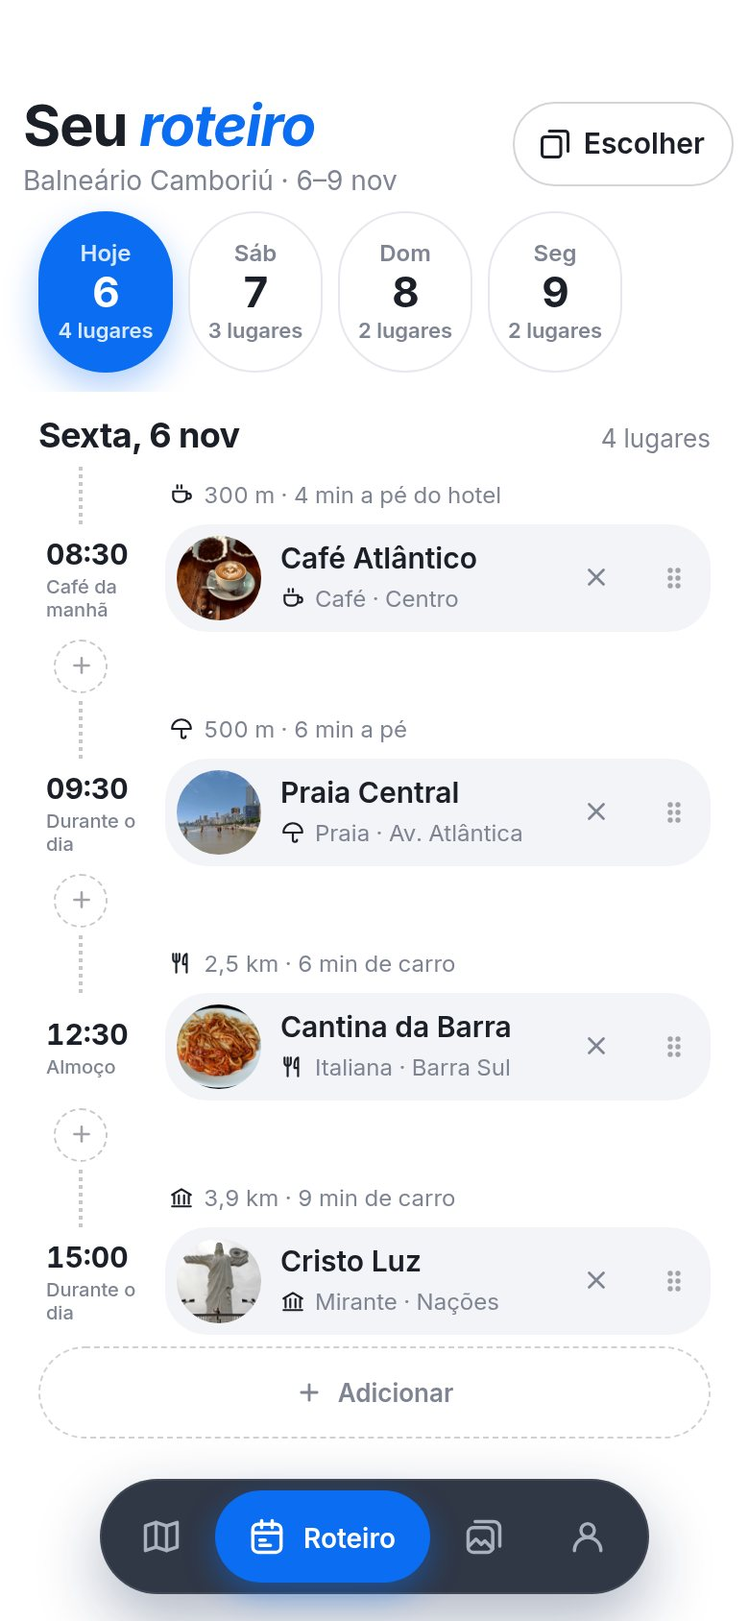
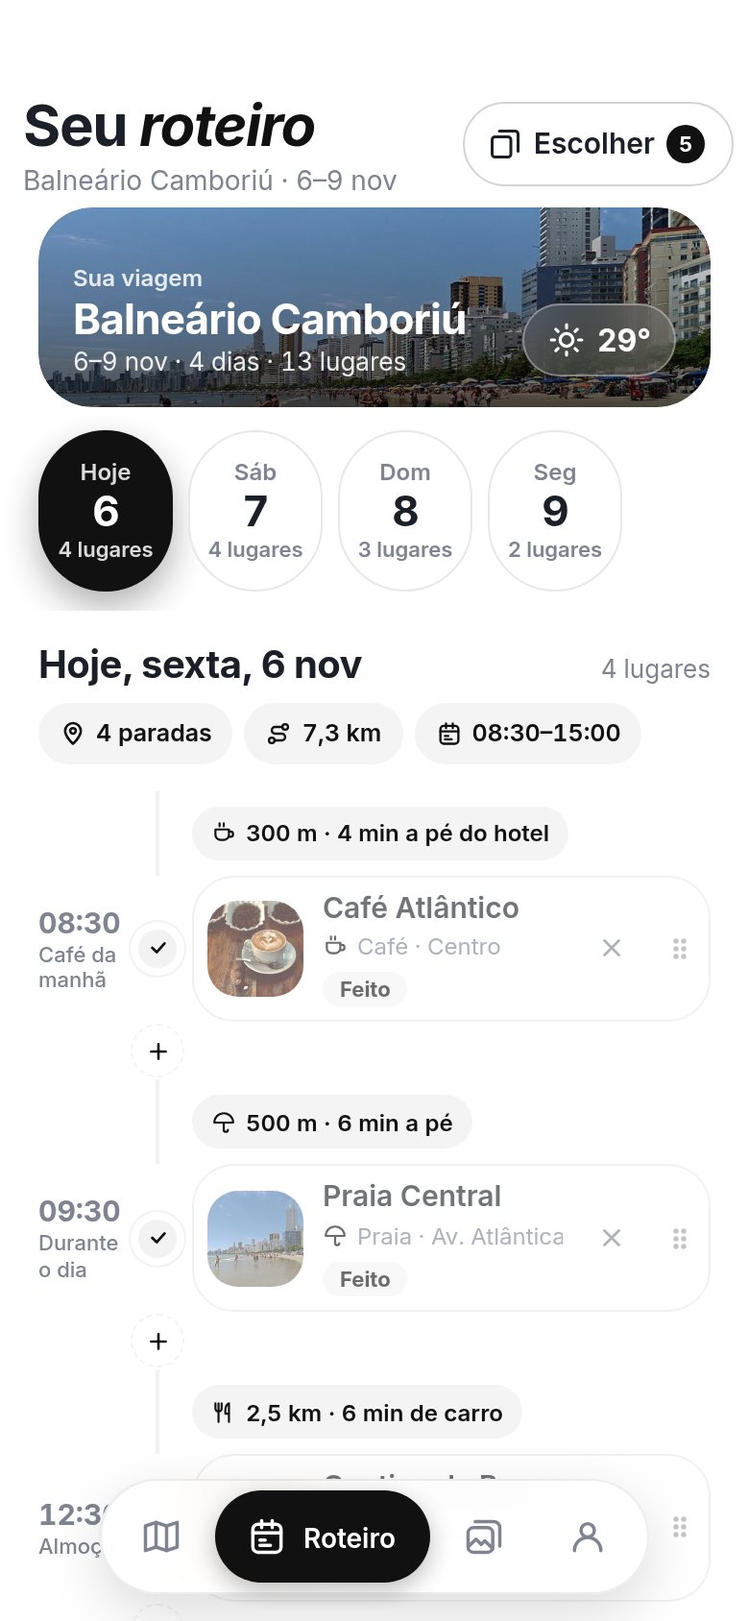
Preto e branco: o destaque passa a ser preto em todo o app, mapa, landing e marca; mockups de celular para os slides respeitando o notch

diff --git a/index.html b/index.html
@@ -6,7 +6,7 @@
 <link rel="icon" href="brand/favicon.svg" type="image/svg+xml">
 <link rel="icon" href="brand/favicon-32.png" sizes="32x32" type="image/png">
 <link rel="apple-touch-icon" href="brand/apple-touch-icon.png">
-<meta name="theme-color" content="#2A78C2">
+<meta name="theme-color" content="#111111">
 <meta name="viewport" content="width=device-width, initial-scale=1, viewport-fit=cover">
 <meta name="description" content="Chegou no litoral? O Partiu mostra o que fazer, comer e curtir perto de você, na hora.">
 <meta property="og:title" content="Partiu">
@@ -17,7 +17,7 @@
 <style>
 /* Landing do Partiu: azul e branco, formato pílula, pouco texto e muito movimento. */
 :root {
-  --brand: #2A78C2; --brand-deep: #1F5F9E; --brand-soft: #EAF2FA;
+  --brand: #111111; --brand-deep: #000000; --brand-soft: #F2F2F3;
   --ink: #0E1726; --sec: #6B7486; --line: #E4E8EF; --bg: #FFFFFF; --soft: #F3F7FC;
   --font: -apple-system, BlinkMacSystemFont, "SF Pro Display", Inter, "Helvetica Neue", Arial, sans-serif;
   --ease: cubic-bezier(.2, .8, .2, 1); --spring: cubic-bezier(.34, 1.56, .64, 1);
@@ -32,7 +32,7 @@ h1, h2, h3 { letter-spacing: -0.04em; line-height: .98; }
 em { font-style: italic; color: var(--brand); }
 
 /* navegação flutuante */
-.nav { position: fixed; z-index: 50; top: 14px; left: 50%; transform: translateX(-50%); width: min(1180px, calc(100% - 24px)); display: flex; align-items: center; gap: 8px; padding: 8px 8px 8px 16px; border-radius: 999px; background: rgba(255,255,255,.78); backdrop-filter: blur(18px) saturate(1.5); -webkit-backdrop-filter: blur(18px) saturate(1.5); box-shadow: 0 8px 30px rgba(8, 30, 70, .08), inset 0 0 0 1px rgba(14, 23, 38, .06); animation: drop .8s var(--ease) backwards; }
+.nav { position: fixed; z-index: 50; top: 14px; left: 50%; transform: translateX(-50%); width: min(1180px, calc(100% - 24px)); display: flex; align-items: center; gap: 8px; padding: 8px 8px 8px 16px; border-radius: 999px; background: rgba(255,255,255,.78); backdrop-filter: blur(18px) saturate(1.5); -webkit-backdrop-filter: blur(18px) saturate(1.5); box-shadow: 0 8px 30px rgba(0, 0, 0, .08), inset 0 0 0 1px rgba(14, 23, 38, .06); animation: drop .8s var(--ease) backwards; }
 @keyframes drop { from { opacity: 0; transform: translate(-50%, -24px); } }
 .logo { display: flex; align-items: center; gap: 8px; font-weight: 800; font-size: 19px; letter-spacing: -0.03em; }
 .logo img { width: 30px; height: 30px; border-radius: 9px; }
@@ -42,8 +42,8 @@ em { font-style: italic; color: var(--brand); }
 .pill { display: inline-flex; align-items: center; justify-content: center; gap: 8px; min-height: 48px; padding: 0 22px; border-radius: 999px; font-size: 15px; font-weight: 700; white-space: nowrap; transition: transform .25s var(--spring), box-shadow .25s, background .2s; }
 .pill:hover { transform: translateY(-2px); }
 .pill:active { transform: scale(.96); }
-.pill.blue { background: var(--brand); color: #fff; box-shadow: 0 10px 24px rgba(42, 120, 194, .3); }
-.pill.blue:hover { background: var(--brand-deep); box-shadow: 0 14px 30px rgba(42, 120, 194, .38); }
+.pill.blue { background: var(--brand); color: #fff; box-shadow: 0 10px 24px rgba(17, 17, 17, .3); }
+.pill.blue:hover { background: var(--brand-deep); box-shadow: 0 14px 30px rgba(17, 17, 17, .38); }
 .pill.line { background: #fff; color: var(--ink); box-shadow: inset 0 0 0 1.5px var(--line); }
 .pill.line:hover { box-shadow: inset 0 0 0 1.5px var(--brand); color: var(--brand); }
 .pill.white { background: #fff; color: var(--brand); }
@@ -70,14 +70,14 @@ em { font-style: italic; color: var(--brand); }
 .cta { display: flex; flex-wrap: wrap; gap: 10px; margin-top: 30px; animation: fade 1s .5s var(--ease) backwards; }
 .stage { position: relative; height: 640px; display: grid; place-items: center; }
 .sun { position: absolute; width: 470px; height: 470px; border-radius: 50%; background: var(--brand); animation: grow 1.2s var(--ease) backwards, breathe 8s 1.2s ease-in-out infinite; }
-.ring { position: absolute; width: 600px; height: 600px; border-radius: 50%; border: 1.5px dashed rgba(42, 120, 194, .25); animation: spin 60s linear infinite; }
+.ring { position: absolute; width: 600px; height: 600px; border-radius: 50%; border: 1.5px dashed rgba(17, 17, 17, .25); animation: spin 60s linear infinite; }
 @keyframes grow { from { transform: scale(.4); opacity: 0; } }
 @keyframes breathe { 50% { transform: scale(1.04); } }
 @keyframes spin { to { transform: rotate(360deg); } }
-.phone { position: relative; width: 290px; aspect-ratio: 390 / 844; border-radius: 46px; padding: 9px; background: #fff; box-shadow: 0 40px 80px rgba(8, 30, 70, .28), 0 0 0 1px rgba(14,23,38,.06); transform-style: preserve-3d; transition: transform .2s ease-out; animation: rise 1.1s .2s var(--ease) backwards; }
+.phone { position: relative; width: 290px; aspect-ratio: 390 / 844; border-radius: 46px; padding: 9px; background: #fff; box-shadow: 0 40px 80px rgba(0, 0, 0, .28), 0 0 0 1px rgba(14,23,38,.06); transform-style: preserve-3d; transition: transform .2s ease-out; animation: rise 1.1s .2s var(--ease) backwards; }
 @keyframes rise { from { opacity: 0; transform: translateY(80px) rotate(4deg); } }
 .phone img { width: 100%; height: 100%; object-fit: cover; object-position: top; border-radius: 38px; }
-.chip { position: absolute; z-index: 2; display: flex; align-items: center; gap: 10px; padding: 10px 16px 10px 10px; border-radius: 999px; background: #fff; box-shadow: 0 14px 34px rgba(8, 30, 70, .16); font-size: 14px; font-weight: 700; white-space: nowrap; animation: pop .7s var(--spring) backwards, bob 5s ease-in-out infinite; }
+.chip { position: absolute; z-index: 2; display: flex; align-items: center; gap: 10px; padding: 10px 16px 10px 10px; border-radius: 999px; background: #fff; box-shadow: 0 14px 34px rgba(0, 0, 0, .16); font-size: 14px; font-weight: 700; white-space: nowrap; animation: pop .7s var(--spring) backwards, bob 5s ease-in-out infinite; }
 .chip small { display: block; font-size: 12px; font-weight: 600; color: var(--sec); }
 .chip .d { width: 36px; height: 36px; border-radius: 50%; display: grid; place-items: center; background: var(--brand-soft); color: var(--brand); flex: none; }
 .chip .d.b { background: var(--brand); color: #fff; }
@@ -126,7 +126,7 @@ h2 { font-size: clamp(42px, 6vw, 84px); font-weight: 800; margin: 18px 0 0; }
 .pin-pulse::before { content: ""; position: absolute; inset: -4px; border-radius: 50%; background: rgba(11,110,242,.45); animation: wave 2s ease-out infinite; }
 @keyframes wave { to { transform: scale(4); opacity: 0; } }
 .deck { position: relative; height: 230px; margin: 22px auto 0; width: 190px; }
-.card { position: absolute; inset: 0; border-radius: 26px; overflow: hidden; box-shadow: 0 16px 34px rgba(8, 30, 70, .18); background: #fff; }
+.card { position: absolute; inset: 0; border-radius: 26px; overflow: hidden; box-shadow: 0 16px 34px rgba(0, 0, 0, .18); background: #fff; }
 .card img { width: 100%; height: 100%; object-fit: cover; }
 .card:nth-child(1) { transform: rotate(-8deg) translateX(-18px); }
 .card:nth-child(2) { transform: rotate(5deg) translateX(14px); }
@@ -147,7 +147,7 @@ h2 { font-size: clamp(42px, 6vw, 84px); font-weight: 800; margin: 18px 0 0; }
 .screens { margin-top: 50px; display: flex; gap: 22px; overflow-x: auto; scroll-snap-type: x mandatory; padding: 20px 4px 40px; scrollbar-width: none; }
 .screens::-webkit-scrollbar { display: none; }
 .shot { flex: none; width: 260px; scroll-snap-align: center; text-align: center; }
-.shot .phone { width: 100%; animation: none; box-shadow: 0 30px 60px rgba(8, 30, 70, .18), 0 0 0 1px rgba(14,23,38,.06); transition: transform .5s var(--ease); }
+.shot .phone { width: 100%; animation: none; box-shadow: 0 30px 60px rgba(0, 0, 0, .18), 0 0 0 1px rgba(14,23,38,.06); transition: transform .5s var(--ease); }
 .shot:nth-child(even) .phone { transform: translateY(36px); }
 .shot:hover .phone { transform: translateY(-8px) rotate(-1.5deg); }
 .shot span { display: inline-flex; margin-top: 20px; padding: 8px 16px; border-radius: 999px; background: var(--soft); font-size: 14px; font-weight: 700; }
@@ -169,7 +169,7 @@ h2 { font-size: clamp(42px, 6vw, 84px); font-weight: 800; margin: 18px 0 0; }
 /* comércio */
 .biz { position: relative; border-radius: 48px; overflow: hidden; min-height: 520px; display: flex; align-items: flex-end; color: #fff; isolation: isolate; }
 .biz img { position: absolute; inset: 0; width: 100%; height: 100%; object-fit: cover; z-index: -2; transform: scale(1.1); transition: transform .1s linear; }
-.biz::after { content: ""; position: absolute; inset: 0; z-index: -1; background: linear-gradient(0deg, rgba(0, 20, 50, .82) 10%, rgba(0, 20, 50, .1) 70%); }
+.biz::after { content: ""; position: absolute; inset: 0; z-index: -1; background: linear-gradient(0deg, rgba(0, 0, 0, .82) 10%, rgba(0, 0, 0, .1) 70%); }
 .biz-in { padding: clamp(28px, 5vw, 60px); max-width: 720px; }
 .biz h2 { color: #fff; }
 .biz p { margin: 18px 0 26px; font-size: 20px; opacity: .9; line-height: 1.4; }

diff --git a/css/screens/plan.css b/css/screens/plan.css
@@ -9,7 +9,7 @@
 .dc-w { display: inline-flex; align-items: center; gap: 3px; font-size: 12px; font-weight: 600; text-transform: capitalize; }
 .day-chip b { font-size: 22px; font-weight: 700; letter-spacing: -0.5px; line-height: 1.1; color: var(--ink); font-variant-numeric: tabular-nums; }
 .day-chip small { font-size: 11px; font-weight: 600; white-space: nowrap; }
-.day-chip.on { background: var(--brand); border-color: transparent; color: rgba(255,255,255,.85); box-shadow: 0 8px 18px rgba(42, 120, 194, .32); }
+.day-chip.on { background: var(--brand); border-color: transparent; color: rgba(255,255,255,.85); box-shadow: 0 8px 18px rgba(17, 17, 17, .32); }
 .day-chip.on b { color: #fff; }
 .day-chip.drop { transform: scale(1.1); border: 1.5px dashed var(--ink); }
 
@@ -160,7 +160,7 @@
 .choice:active { transform: scale(.97); }
 .choice img { position: absolute; inset: 0; width: 100%; height: 100%; object-fit: cover; z-index: -2; transition: transform .6s cubic-bezier(.2, .8, .2, 1); }
 .choice:hover img { transform: scale(1.04); }
-.choice::after { content: ""; position: absolute; inset: 0; z-index: -1; background: linear-gradient(180deg, rgba(6,22,48,0) 30%, rgba(6,22,48,.78)); }
+.choice::after { content: ""; position: absolute; inset: 0; z-index: -1; background: linear-gradient(180deg, rgba(0, 0, 0,0) 30%, rgba(0, 0, 0,.78)); }
 .choice-tag { position: absolute; top: 16px; left: 16px; padding: 6px 12px; border-radius: 999px; font-size: 13px; font-weight: 600; background: var(--glass); border: 1px solid var(--glass-line); backdrop-filter: blur(14px); -webkit-backdrop-filter: blur(14px); }
 .choice-tx { flex: 1; min-width: 0; display: flex; flex-direction: column; gap: 4px; padding: 20px; }
 .choice-tx strong { font-size: 20px; font-weight: 700; letter-spacing: -0.4px; }
@@ -184,7 +184,7 @@
 .ev-time:hover { background: none; color: var(--brand); }
 .ev-dot { position: relative; z-index: 1; width: 20px; height: 20px; border-radius: 50%; display: grid; place-items: center; background: var(--brand); color: #fff; font-size: 11px; font-weight: 700; box-shadow: 0 0 0 4px var(--surface), 0 0 0 5px var(--brand-soft); font-variant-numeric: tabular-nums; }
 .ev-card { background: var(--surface); border: 1px solid var(--line); padding: 7px 2px 7px 7px; gap: 10px; transition: border-color .2s, transform .2s cubic-bezier(.2, .8, .2, 1), box-shadow .2s; }
-.ev-card:hover { border-color: var(--brand); box-shadow: 0 8px 20px rgba(42, 120, 194, .10); }
+.ev-card:hover { border-color: var(--brand); box-shadow: 0 8px 20px rgba(17, 17, 17, .10); }
 .ev .pph { width: 50px; height: 50px; border-radius: 16px; }
 .ev-card .rm { width: 30px; }
 .ev-card .handle { width: 22px; }
@@ -210,7 +210,7 @@
 /* capa da viagem no topo do roteiro */
 .trip-hero { position: relative; flex: none; margin: 6px 20px 4px; min-height: 104px; border-radius: 28px; overflow: hidden; isolation: isolate; color: #fff; display: flex; align-items: flex-end; gap: 12px; padding: 16px 18px; -webkit-mask-image: -webkit-radial-gradient(white, black); animation: rise-in .5s cubic-bezier(.2, .8, .2, 1) backwards; }
 .trip-hero img { position: absolute; inset: 0; width: 100%; height: 100%; object-fit: cover; z-index: -2; animation: m-kenburns 12s cubic-bezier(.2, .8, .2, 1) both; }
-.trip-hero::after { content: ""; position: absolute; inset: 0; z-index: -1; background: linear-gradient(180deg, rgba(0, 25, 55, .05), rgba(0, 25, 55, .62)); }
+.trip-hero::after { content: ""; position: absolute; inset: 0; z-index: -1; background: linear-gradient(180deg, rgba(0, 0, 0, .05), rgba(0, 0, 0, .62)); }
 .th-tx { flex: 1; min-width: 0; display: flex; flex-direction: column; gap: 1px; }
 .th-tx small { font-size: 12px; font-weight: 600; opacity: .85; }
 .th-tx strong { font-size: 22px; font-weight: 700; letter-spacing: -0.4px; white-space: nowrap; overflow: hidden; text-overflow: ellipsis; }
@@ -222,12 +222,12 @@
 .tl-now { position: relative; display: flex; align-items: center; margin: 6px 0 6px 52px; height: 26px; animation: rise-in .5s .2s cubic-bezier(.2, .8, .2, 1) backwards; }
 .tl-now::before { content: ""; position: absolute; left: 4px; right: 0; top: 50%; height: 2px; background: var(--brand); border-radius: 2px; }
 .tl-now::after { content: ""; position: absolute; left: 0; top: 50%; width: 12px; height: 12px; margin-top: -6px; border-radius: 50%; background: var(--brand); box-shadow: 0 0 0 4px var(--brand-soft); animation: now-pulse 2s ease-out infinite; }
-@keyframes now-pulse { 0% { box-shadow: 0 0 0 0 rgba(42, 120, 194, .45); } 100% { box-shadow: 0 0 0 10px rgba(42, 120, 194, 0); } }
+@keyframes now-pulse { 0% { box-shadow: 0 0 0 0 rgba(17, 17, 17, .45); } 100% { box-shadow: 0 0 0 10px rgba(17, 17, 17, 0); } }
 .tl-now span { position: relative; margin-left: 26px; padding: 4px 12px; border-radius: 999px; background: var(--brand); color: #fff; font-size: 12px; font-weight: 700; font-variant-numeric: tabular-nums; }
 .ev.past .ev-card { opacity: .62; }
 .ev.past .ev-time { color: var(--sec); }
 .ev.past .ev-dot { background: var(--brand-soft); color: var(--brand); }
-.ev.live .ev-card { border-color: var(--brand); box-shadow: 0 8px 22px rgba(42, 120, 194, .16); }
+.ev.live .ev-card { border-color: var(--brand); box-shadow: 0 8px 22px rgba(17, 17, 17, .16); }
 .ev.live .ev-dot { animation: now-pulse 2s ease-out infinite; }
 .ev-tag { align-self: flex-start; margin-top: 3px; padding: 2px 9px; border-radius: 999px; background: var(--brand); color: #fff; font-size: 11px; font-weight: 700; }
 .ev-tag.done { background: var(--fill); color: var(--brand); }

diff --git a/css/base.css b/css/base.css
@@ -7,18 +7,18 @@ img { max-width: 100%; }
 :root {
   --bg: #FFFFFF;
   --surface: #FFFFFF;
-  --fill: #F1F6FC; /* fundos suaves em azul bem claro, nunca cinza */
-  --line: #E2EAF3;
+  --fill: #F4F4F5; /* fundos suaves em cinza bem claro */
+  --line: #E8E8EA;
   --ink: #1B1F27;
   --sec: #7E8492;
   --muted: #B9BEC8;
-  --brand: #2A78C2;
-  --brand-deep: #1F5F9E;
-  --brand-soft: #EAF2FA;
-  --brand-sky: #7CC0EA; /* ciano do mar, só para detalhes pequenos */
+  --brand: #111111;
+  --brand-deep: #000000;
+  --brand-soft: #F2F2F3;
+  --brand-sky: #8A8A8E; /* cinza médio, só para detalhes pequenos */
   --glass: rgba(255, 255, 255, .16);
   --glass-line: rgba(255, 255, 255, .34);
-  --screen: #FFFFFF; /* telas em branco puro; o azul é a única cor */
+  --screen: #FFFFFF; /* telas em branco puro; o preto é o destaque */
   --font: -apple-system, BlinkMacSystemFont, 'SF Pro Display', 'SF Pro Text', 'Inter', 'Segoe UI', Roboto, sans-serif;
   color-scheme: light;
 }
@@ -34,7 +34,7 @@ h1 { font-size: 30px; font-weight: 700; line-height: 1.15; letter-spacing: -0.7p
 .q-title h1 em { font-weight: 700; }
 h1 em { font-style: italic; color: var(--brand); }
 
-.phone { position: relative; width: 390px; height: 844px; max-height: calc(100% - 32px); background: var(--surface); border-radius: 48px; overflow: hidden; overflow: clip; box-shadow: 0 0 0 10px #FFFFFF, 0 0 0 11px #DADDE3, 0 40px 90px rgba(19,40,80,.18); }
+.phone { position: relative; width: 390px; height: 844px; max-height: calc(100% - 32px); background: var(--surface); border-radius: 48px; overflow: hidden; overflow: clip; box-shadow: 0 0 0 10px #FFFFFF, 0 0 0 11px #DADDE3, 0 40px 90px rgba(0, 0, 0,.18); }
 @media (max-width: 500px) {
   body { display: block; }
   .phone { width: 100%; height: 100%; max-height: none; border-radius: 0; box-shadow: none; }
@@ -73,11 +73,11 @@ h1 em { font-style: italic; color: var(--brand); }
 
 /* ---------- barra inferior: fixa e flutuando sobre todas as abas da área logada ---------- */
 .tabbar { position: absolute; z-index: 1500; left: 50%; bottom: max(14px, env(safe-area-inset-bottom)); transform: translateX(-50%); display: flex; gap: 2px; padding: 6px; border-radius: 999px;
-  background: rgba(255, 255, 255, .9); backdrop-filter: blur(18px) saturate(1.6); -webkit-backdrop-filter: blur(18px) saturate(1.6); box-shadow: 0 10px 30px rgba(20, 50, 90, .14), inset 0 0 0 1px rgba(20, 40, 70, .07);
+  background: rgba(255, 255, 255, .9); backdrop-filter: blur(18px) saturate(1.6); -webkit-backdrop-filter: blur(18px) saturate(1.6); box-shadow: 0 10px 30px rgba(0, 0, 0, .14), inset 0 0 0 1px rgba(0, 0, 0, .07);
   transition: transform .35s cubic-bezier(.2, .8, .2, 1), opacity .25s; animation: tab-in .5s cubic-bezier(.34, 1.56, .64, 1) backwards; }
 .tabbar[hidden] { display: flex; opacity: 0; pointer-events: none; transform: translate(-50%, 140%); }
 @keyframes tab-in { from { transform: translate(-50%, 140%); } }
-.tab-ind { position: absolute; z-index: 0; top: 6px; bottom: 6px; left: 0; width: var(--iw, 0); transform: translateX(var(--ix, 0)); border-radius: 999px; background: var(--brand); box-shadow: 0 4px 12px rgba(42, 120, 194, .28); transition: transform .45s cubic-bezier(.34, 1.3, .64, 1), width .45s cubic-bezier(.34, 1.3, .64, 1); }
+.tab-ind { position: absolute; z-index: 0; top: 6px; bottom: 6px; left: 0; width: var(--iw, 0); transform: translateX(var(--ix, 0)); border-radius: 999px; background: var(--brand); box-shadow: 0 4px 12px rgba(17, 17, 17, .28); transition: transform .45s cubic-bezier(.34, 1.3, .64, 1), width .45s cubic-bezier(.34, 1.3, .64, 1); }
 .tabbar button { position: relative; z-index: 1; min-height: 48px; min-width: 52px; padding: 0 14px; border: 0; border-radius: 999px; background: none; display: flex; align-items: center; justify-content: center; gap: 0; font-size: 14px; font-weight: 600; color: var(--sec); transition: color .25s, padding .35s cubic-bezier(.2, .8, .2, 1); }
 .tabbar button:active .tab-ic { transform: scale(.86); }
 .tab-ic { display: grid; transition: transform .2s cubic-bezier(.2, .8, .2, 1); }
@@ -100,7 +100,7 @@ h1 em { font-style: italic; color: var(--brand); }
 /* botão do desktop para ver o app no formato de celular (e voltar para tela cheia) */
 .view-toggle { display: none; }
 @media (min-width: 900px) {
-  .view-toggle { position: fixed; z-index: 3000; top: 16px; right: 16px; display: inline-flex; align-items: center; gap: 8px; min-height: 42px; padding: 0 16px 0 14px; border: 1px solid var(--line); border-radius: 999px; background: rgba(255,255,255,.92); backdrop-filter: blur(14px); -webkit-backdrop-filter: blur(14px); color: var(--brand); font-size: 14px; font-weight: 600; box-shadow: 0 6px 18px rgba(20, 50, 90, .12); transition: transform .2s cubic-bezier(.2, .8, .2, 1), background .2s; }
+  .view-toggle { position: fixed; z-index: 3000; top: 16px; right: 16px; display: inline-flex; align-items: center; gap: 8px; min-height: 42px; padding: 0 16px 0 14px; border: 1px solid var(--line); border-radius: 999px; background: rgba(255,255,255,.92); backdrop-filter: blur(14px); -webkit-backdrop-filter: blur(14px); color: var(--brand); font-size: 14px; font-weight: 600; box-shadow: 0 6px 18px rgba(0, 0, 0, .12); transition: transform .2s cubic-bezier(.2, .8, .2, 1), background .2s; }
   .view-toggle:hover { transform: translateY(-1px); background: #fff; }
   .view-toggle[aria-pressed="true"] { background: var(--brand); color: #fff; border-color: var(--brand); }
   html.phone-mode body { background: var(--fill); }

diff --git a/app.html b/app.html
@@ -8,22 +8,22 @@
 <link rel="icon" href="brand/favicon.svg" type="image/svg+xml">
 <link rel="icon" href="brand/favicon-32.png" sizes="32x32" type="image/png">
 <link rel="apple-touch-icon" href="brand/apple-touch-icon.png">
-<meta name="theme-color" content="#2A78C2">
+<meta name="theme-color" content="#111111">
 <link rel="preconnect" href="https://fonts.googleapis.com">
 <link rel="stylesheet" href="https://fonts.googleapis.com/css2?family=Inter:ital,wght@0,400;0,500;0,600;0,700;1,600;1,700&display=swap">
 <link rel="stylesheet" href="https://cdnjs.cloudflare.com/ajax/libs/maplibre-gl/4.7.1/maplibre-gl.css">
-<link rel="stylesheet" href="css/base.css?v=26">
-<link rel="stylesheet" href="css/screens/onboarding.css?v=26">
-<link rel="stylesheet" href="css/screens/quiz.css?v=26">
-<link rel="stylesheet" href="css/screens/loading.css?v=26">
-<link rel="stylesheet" href="css/screens/plan.css?v=26">
-<link rel="stylesheet" href="css/screens/map.css?v=26">
-<link rel="stylesheet" href="css/screens/login.css?v=26">
-<link rel="stylesheet" href="css/screens/feed.css?v=26">
-<link rel="stylesheet" href="css/screens/conta.css?v=26">
-<link rel="stylesheet" href="css/pill.css?v=26">
-<link rel="stylesheet" href="css/motion.css?v=26">
-<link rel="stylesheet" href="css/desktop.css?v=26">
+<link rel="stylesheet" href="css/base.css?v=27">
+<link rel="stylesheet" href="css/screens/onboarding.css?v=27">
+<link rel="stylesheet" href="css/screens/quiz.css?v=27">
+<link rel="stylesheet" href="css/screens/loading.css?v=27">
+<link rel="stylesheet" href="css/screens/plan.css?v=27">
+<link rel="stylesheet" href="css/screens/map.css?v=27">
+<link rel="stylesheet" href="css/screens/login.css?v=27">
+<link rel="stylesheet" href="css/screens/feed.css?v=27">
+<link rel="stylesheet" href="css/screens/conta.css?v=27">
+<link rel="stylesheet" href="css/pill.css?v=27">
+<link rel="stylesheet" href="css/motion.css?v=27">
+<link rel="stylesheet" href="css/desktop.css?v=27">
 </head>
 <body>
 <a class="dev-link" href="telas.html">← Todas as telas</a>
@@ -217,18 +217,18 @@
 <script src="https://cdnjs.cloudflare.com/ajax/libs/leaflet/1.9.4/leaflet.js"></script>
 <script src="https://cdnjs.cloudflare.com/ajax/libs/maplibre-gl/4.7.1/maplibre-gl.js"></script>
 <script src="https://cdn.jsdelivr.net/npm/@maplibre/maplibre-gl-leaflet@0.0.22/leaflet-maplibre-gl.js"></script>
-<script src="js/data.js?v=26"></script>
-<script src="js/core.js?v=26"></script>
-<script src="js/ui/hnav.js?v=26"></script>
-<script src="js/screens/intro.js?v=26"></script>
-<script src="js/screens/quiz.js?v=26"></script>
-<script src="js/screens/loading.js?v=26"></script>
-<script src="js/screens/plan.js?v=26"></script>
-<script src="js/screens/map.js?v=26"></script>
-<script src="js/trips.js?v=26"></script>
-<script src="js/screens/feed.js?v=26"></script>
-<script src="js/screens/conta.js?v=26"></script>
-<script src="js/screens/login.js?v=26"></script>
-<script src="js/main.js?v=26"></script>
+<script src="js/data.js?v=27"></script>
+<script src="js/core.js?v=27"></script>
+<script src="js/ui/hnav.js?v=27"></script>
+<script src="js/screens/intro.js?v=27"></script>
+<script src="js/screens/quiz.js?v=27"></script>
+<script src="js/screens/loading.js?v=27"></script>
+<script src="js/screens/plan.js?v=27"></script>
+<script src="js/screens/map.js?v=27"></script>
+<script src="js/trips.js?v=27"></script>
+<script src="js/screens/feed.js?v=27"></script>
+<script src="js/screens/conta.js?v=27"></script>
+<script src="js/screens/login.js?v=27"></script>
+<script src="js/main.js?v=27"></script>
 </body>
 </html>

diff --git a/js/screens/map.js b/js/screens/map.js
@@ -22,19 +22,19 @@ const FALLBACK_ME = { ll: [-27.12853, -48.60103], name: 'Shopping Russi & Russi,
 const TRIP_CARD_H = 112; // área ocupada pelo cartão da viagem no topo do mapa
 let me = null, sheetState = 'half', noteT;
 
-// Mapa base: vetorial (OpenFreeMap, estilo Positron) com as cores da marca, nítido em qualquer zoom.
+// Mapa base: vetorial (OpenFreeMap, estilo Positron) em preto e branco, como a marca, nítido em qualquer zoom.
 // Sem WebGL ou sem rede, usa os blocos salvos em tiles/ (Esri Light Gray), com o mesmo tom azul.
 const MAP_STYLE = 'https://tiles.openfreemap.org/styles/positron';
 const MAP_PAINT = [
-  [/^background$/, 'background-color', '#F3F7FC'], [/^water$/, 'fill-color', '#BDDAF0'], [/^waterway$/, 'line-color', '#AED0EC'],
-  [/^park$|wood/, 'fill-color', '#DCF0E1'], [/residential/, 'fill-color', '#EDF1F7'], [/^building$/, 'fill-color', '#E3E9F1'],
-  [/casing/, 'line-color', '#D3DDEA'], [/inner|minor|subtle|pier/, 'line-color', '#FFFFFF'], [/path/, 'line-color', '#DCE4EE']
+  [/^background$/, 'background-color', '#F6F6F6'], [/^water$/, 'fill-color', '#DCDFE3'], [/^waterway$/, 'line-color', '#D2D5DA'],
+  [/^park$|wood/, 'fill-color', '#ECEDEA'], [/residential/, 'fill-color', '#F1F1F2'], [/^building$/, 'fill-color', '#E5E5E7'],
+  [/casing/, 'line-color', '#D9D9DC'], [/inner|minor|subtle|pier/, 'line-color', '#FFFFFF'], [/path/, 'line-color', '#E1E1E3']
 ];
 function styleForBrand(st) {
   st.layers.forEach((l) => {
     MAP_PAINT.forEach(([re, prop, val]) => { if (re.test(l.id) && prop.split('-')[0] === l.type) { l.paint = l.paint || {}; l.paint[prop] = val; } });
     if (l.type === 'symbol' && l.paint) {
-      l.paint['text-color'] = /water/.test(l.id) ? '#2F86CF' : '#556274';
+      l.paint['text-color'] = /water/.test(l.id) ? '#7A7F87' : '#5E6066';
       l.paint['text-halo-color'] = 'rgba(255,255,255,.95)';
     }
   });
@@ -81,13 +81,13 @@ function drawRoute(pts) {
   if (routeLine) routeLine.remove();
   if (routeCasing) { routeCasing.remove(); routeCasing = null; }
   if (pts.length < 2) return;
-  routeLine = L.polyline(pts, { color: '#2A78C2', weight: 3, opacity: 0.55, dashArray: '2 8', lineCap: 'round', interactive: false }).addTo(map);
+  routeLine = L.polyline(pts, { color: '#111111', weight: 3, opacity: 0.55, dashArray: '2 8', lineCap: 'round', interactive: false }).addTo(map);
   const req = ++routeReq;
   fetchRoute(pts).then((line) => {
     if (req !== routeReq || !map) return;
     routeLine.remove();
     routeCasing = L.polyline(line, { color: '#FFFFFF', weight: 9, opacity: 0.95, lineCap: 'round', lineJoin: 'round', interactive: false, className: 'route-casing' }).addTo(map);
-    routeLine = L.polyline(line, { color: '#2A78C2', weight: 5, opacity: 1, lineCap: 'round', lineJoin: 'round', interactive: false, className: 'route-line' }).addTo(map);
+    routeLine = L.polyline(line, { color: '#111111', weight: 5, opacity: 1, lineCap: 'round', lineJoin: 'round', interactive: false, className: 'route-line' }).addTo(map);
     // a rota "se desenha" do hotel até a última parada
     [routeCasing, routeLine].forEach((pl) => {
       const el = pl.getElement(); if (!el || !el.getTotalLength) return;

diff --git a/css/motion.css b/css/motion.css
@@ -197,7 +197,7 @@
 .lg-body > :nth-child(4) { animation-delay: .32s; } .lg-body > :nth-child(5) { animation-delay: .40s; }
 .lg-social > * { animation: m-rise .5s var(--ease) backwards; }
 .lg-social > :nth-child(1) { animation-delay: .34s; } .lg-social > :nth-child(2) { animation-delay: .40s; } .lg-social > :nth-child(3) { animation-delay: .46s; }
-.lg-soc:hover { transform: translateY(-2px); box-shadow: 0 8px 20px rgba(8, 30, 70, .10); }
+.lg-soc:hover { transform: translateY(-2px); box-shadow: 0 8px 20px rgba(0, 0, 0, .10); }
 .lg-field { transition: box-shadow .25s var(--ease), transform .25s var(--ease); }
 .lg-field:focus-within { transform: scale(1.01); }
 
@@ -206,7 +206,7 @@
 .btn-primary::after { content: ""; position: absolute; z-index: -1; top: 0; bottom: 0; left: 0; width: 45%; background: linear-gradient(90deg, transparent, rgba(255, 255, 255, .28), transparent); transform: translateX(-120%) skewX(-18deg); pointer-events: none; }
 .btn-primary:not(:disabled):hover::after { animation: m-shine .9s var(--ease); }
 .btn-primary:not(:disabled):active { transform: scale(.97); }
-.btn-primary:not(:disabled):hover, .btn-sec:hover, .btn-out:hover { box-shadow: 0 10px 24px rgba(42, 120, 194, .25); }
+.btn-primary:not(:disabled):hover, .btn-sec:hover, .btn-out:hover { box-shadow: 0 10px 24px rgba(17, 17, 17, .25); }
 
 /* abas: título, conteúdo e barra entram juntos; ícone da aba atual dá um pulinho */
 .tab-head > * { animation: m-rise .5s var(--ease) backwards; }
@@ -214,7 +214,7 @@
 #feed.enter-f .stories, #feed.enter-b .stories { animation: m-rise .5s .1s var(--ease) backwards; }
 .tabbar button[aria-current="page"] .tab-ic { animation: m-pop .45s var(--spring); }
 #plan .tl .ev-card { transition: transform .2s var(--ease), box-shadow .2s var(--ease); }
-#plan .tl .ev-card:hover { transform: translateX(3px); box-shadow: 0 6px 16px rgba(8, 30, 70, .06); }
+#plan .tl .ev-card:hover { transform: translateX(3px); box-shadow: 0 6px 16px rgba(0, 0, 0, .06); }
 
 /* escolher como montar: cartões entram e a foto aproxima no hover */
 .choice { animation: m-rise .6s var(--ease) backwards; }

diff --git a/css/desktop.css b/css/desktop.css
@@ -35,7 +35,7 @@
   html:not(.phone-mode) .toast { left: 50%; right: auto; transform: translateX(-50%); width: min(480px, calc(100% - 32px)); bottom: 40px; }
 
   /* mapa: tela cheia com o painel como coluna lateral */
-  html:not(.phone-mode) #main .sheet { top: 16px; left: 16px; bottom: 16px; right: auto; width: 400px; height: auto; border-radius: 28px; box-shadow: 0 12px 40px rgba(19, 40, 80, .16); transition: none; }
+  html:not(.phone-mode) #main .sheet { top: 16px; left: 16px; bottom: 16px; right: auto; width: 400px; height: auto; border-radius: 28px; box-shadow: 0 12px 40px rgba(0, 0, 0, .16); transition: none; }
   html:not(.phone-mode) #main .grabber-btn { display: none; }
   html:not(.phone-mode) #main .places-head { padding-top: 20px; }
   html:not(.phone-mode) #main .trip-card { left: 432px; right: auto; top: 16px; width: min(460px, calc(100% - 448px)); }
@@ -43,7 +43,7 @@
   html:not(.phone-mode) #main .fab { bottom: 24px; right: 24px; }
   html:not(.phone-mode) #main .fab.fab-search { bottom: 76px; }
   html:not(.phone-mode) #main .found { left: 432px; right: auto; width: 380px; bottom: 24px; }
-  html:not(.phone-mode) #main .search-view { inset: 16px auto 16px 16px; width: 400px; border-radius: 28px; overflow: hidden; box-shadow: 0 12px 40px rgba(19, 40, 80, .16); }
+  html:not(.phone-mode) #main .search-view { inset: 16px auto 16px 16px; width: 400px; border-radius: 28px; overflow: hidden; box-shadow: 0 12px 40px rgba(0, 0, 0, .16); }
   html:not(.phone-mode) #main .leaflet-bottom.leaflet-right { margin-right: 76px; }
 }
 @media (min-width: 1400px) {

diff --git a/css/screens/quiz.css b/css/screens/quiz.css
@@ -70,11 +70,11 @@
 .stepper .icon-btn { width: 40px; height: 40px; }
 
 .pills { display: flex; flex-wrap: wrap; gap: 8px; }
-.pill { flex: none; min-height: 44px; padding: 0 18px; border-radius: 999px; border: 0; background: var(--surface); color: var(--sec); font-size: 15px; font-weight: 500; white-space: nowrap; box-shadow: 0 1px 2px rgba(19, 40, 80, .06); }
+.pill { flex: none; min-height: 44px; padding: 0 18px; border-radius: 999px; border: 0; background: var(--surface); color: var(--sec); font-size: 15px; font-weight: 500; white-space: nowrap; box-shadow: 0 1px 2px rgba(0, 0, 0, .06); }
 .pill[aria-pressed="true"] { border-color: var(--brand); background: var(--brand); color: var(--surface); }
 .seg { display: grid; padding: 2px; gap: 2px; background: var(--fill); border-radius: 10px; }
 .seg button { min-height: 40px; border: 0; border-radius: 8px; background: transparent; font-size: 14px; font-weight: 500; }
-.seg button[aria-pressed="true"] { background: var(--brand); color: #fff; font-weight: 600; box-shadow: 0 2px 8px rgba(42, 120, 194, .25); }
+.seg button[aria-pressed="true"] { background: var(--brand); color: #fff; font-weight: 600; box-shadow: 0 2px 8px rgba(17, 17, 17, .25); }
 .group { display: flex; flex-direction: column; gap: 10px; }
 .group-head { display: flex; align-items: baseline; justify-content: space-between; }
 /* interesses: grade em mosaico, cada cartão com sua própria ilustração que ganha vida ao ser escolhido */

diff --git a/css/screens/login.css b/css/screens/login.css
@@ -2,7 +2,7 @@
 #login { background: var(--surface); }
 .lg-hero { position: relative; flex: none; height: clamp(150px, 30%, 300px); border-radius: 0 0 40px 40px; overflow: hidden; color: #fff; isolation: isolate; }
 .lg-hero > img { position: absolute; inset: 0; width: 100%; height: 100%; object-fit: cover; z-index: -2; }
-.lg-hero::after { content: ""; position: absolute; inset: 0; z-index: -1; background: linear-gradient(180deg, rgba(6,22,48,.35), rgba(6,22,48,0) 40%, rgba(6,22,48,.55)); }
+.lg-hero::after { content: ""; position: absolute; inset: 0; z-index: -1; background: linear-gradient(180deg, rgba(0, 0, 0,.35), rgba(0, 0, 0,0) 40%, rgba(0, 0, 0,.55)); }
 .lg-top { position: absolute; left: 16px; right: 16px; top: 48px; display: flex; align-items: center; justify-content: space-between; }
 .lg-brand img { border-radius: 7px; }
 .lg-brand { display: inline-flex; align-items: center; gap: 8px; padding: 6px 14px 6px 6px; border-radius: 999px; font-weight: 800; font-size: 16px; letter-spacing: -0.3px; background: var(--glass); border: 1px solid var(--glass-line); backdrop-filter: blur(14px); -webkit-backdrop-filter: blur(14px); }

diff --git a/css/screens/onboarding.css b/css/screens/onboarding.css
@@ -3,7 +3,7 @@
 #intro > * { position: relative; z-index: 1; }
 #intro > .illus { position: absolute; inset: 0; z-index: 0; }
 .illus img { width: 100%; height: 100%; object-fit: cover; display: block; }
-.illus::after { content: ""; position: absolute; inset: 0; background: linear-gradient(180deg, rgba(6,22,48,.25) 0%, rgba(6,22,48,0) 30%, rgba(6,22,48,.15) 50%, rgba(6,22,48,.82) 100%); }
+.illus::after { content: ""; position: absolute; inset: 0; background: linear-gradient(180deg, rgba(0, 0, 0,.25) 0%, rgba(0, 0, 0,0) 30%, rgba(0, 0, 0,.15) 50%, rgba(0, 0, 0,.82) 100%); }
 .intro-top { display: flex; align-items: center; justify-content: space-between; min-height: 44px; }
 .brand { display: inline-flex; align-items: center; gap: 8px; font-weight: 700; font-size: 19px; letter-spacing: -0.4px; }
 .brand img { border-radius: 8px; }

diff --git a/css/screens/feed.css b/css/screens/feed.css
@@ -1,6 +1,6 @@
 /* ---------- feed: destaques, filtros e publicações em cartões com foto ---------- */
 #feed { background: var(--screen); }
-.feed-head .icon-btn.round { background: var(--surface); box-shadow: 0 2px 10px rgba(8, 30, 70, .08); color: var(--brand); }
+.feed-head .icon-btn.round { background: var(--surface); box-shadow: 0 2px 10px rgba(0, 0, 0, .08); color: var(--brand); }
 .feed-scroll { flex: 1; min-height: 0; overflow-y: auto; padding: 4px 0 120px; }
 .stories { display: flex; gap: 14px; overflow-x: auto; padding: 10px 20px 14px; }
 .story { flex: none; width: 68px; border: 0; background: none; padding: 0; display: flex; flex-direction: column; align-items: center; gap: 6px; animation: rise-in .45s cubic-bezier(.2, .8, .2, 1) backwards; animation-delay: calc(var(--i, 0) * 50ms + 80ms); }

diff --git a/js/core.js b/js/core.js
@@ -58,7 +58,7 @@ const MON = ['jan', 'fev', 'mar', 'abr', 'mai', 'jun', 'jul', 'ago', 'set', 'out
 const QUIZ = ['dest', 'dates', 'budget', 'prefs'];
 const TODAY = 20261106;
 // Categorias do orçamento: ícone, nome e o tom usado na barra de distribuição.
-const ALLOC = [['dormir', 'Hospedagem', '#2A78C2', '#FFFFFF'], ['comer', 'Alimentação', '#6FA6D8', '#FFFFFF'], ['ver', 'Passeios', '#C5DCF0', '#1B1F27']];
+const ALLOC = [['dormir', 'Hospedagem', '#111111', '#FFFFFF'], ['comer', 'Alimentação', '#6B6B70', '#FFFFFF'], ['ver', 'Passeios', '#CFCFD3', '#1B1F27']];
 const DEFAULT_SPLIT = [0.4, 0.35, 0.25];
 // [chave, nome, como aparece no texto de carregamento]
 const INTERESTS = [
